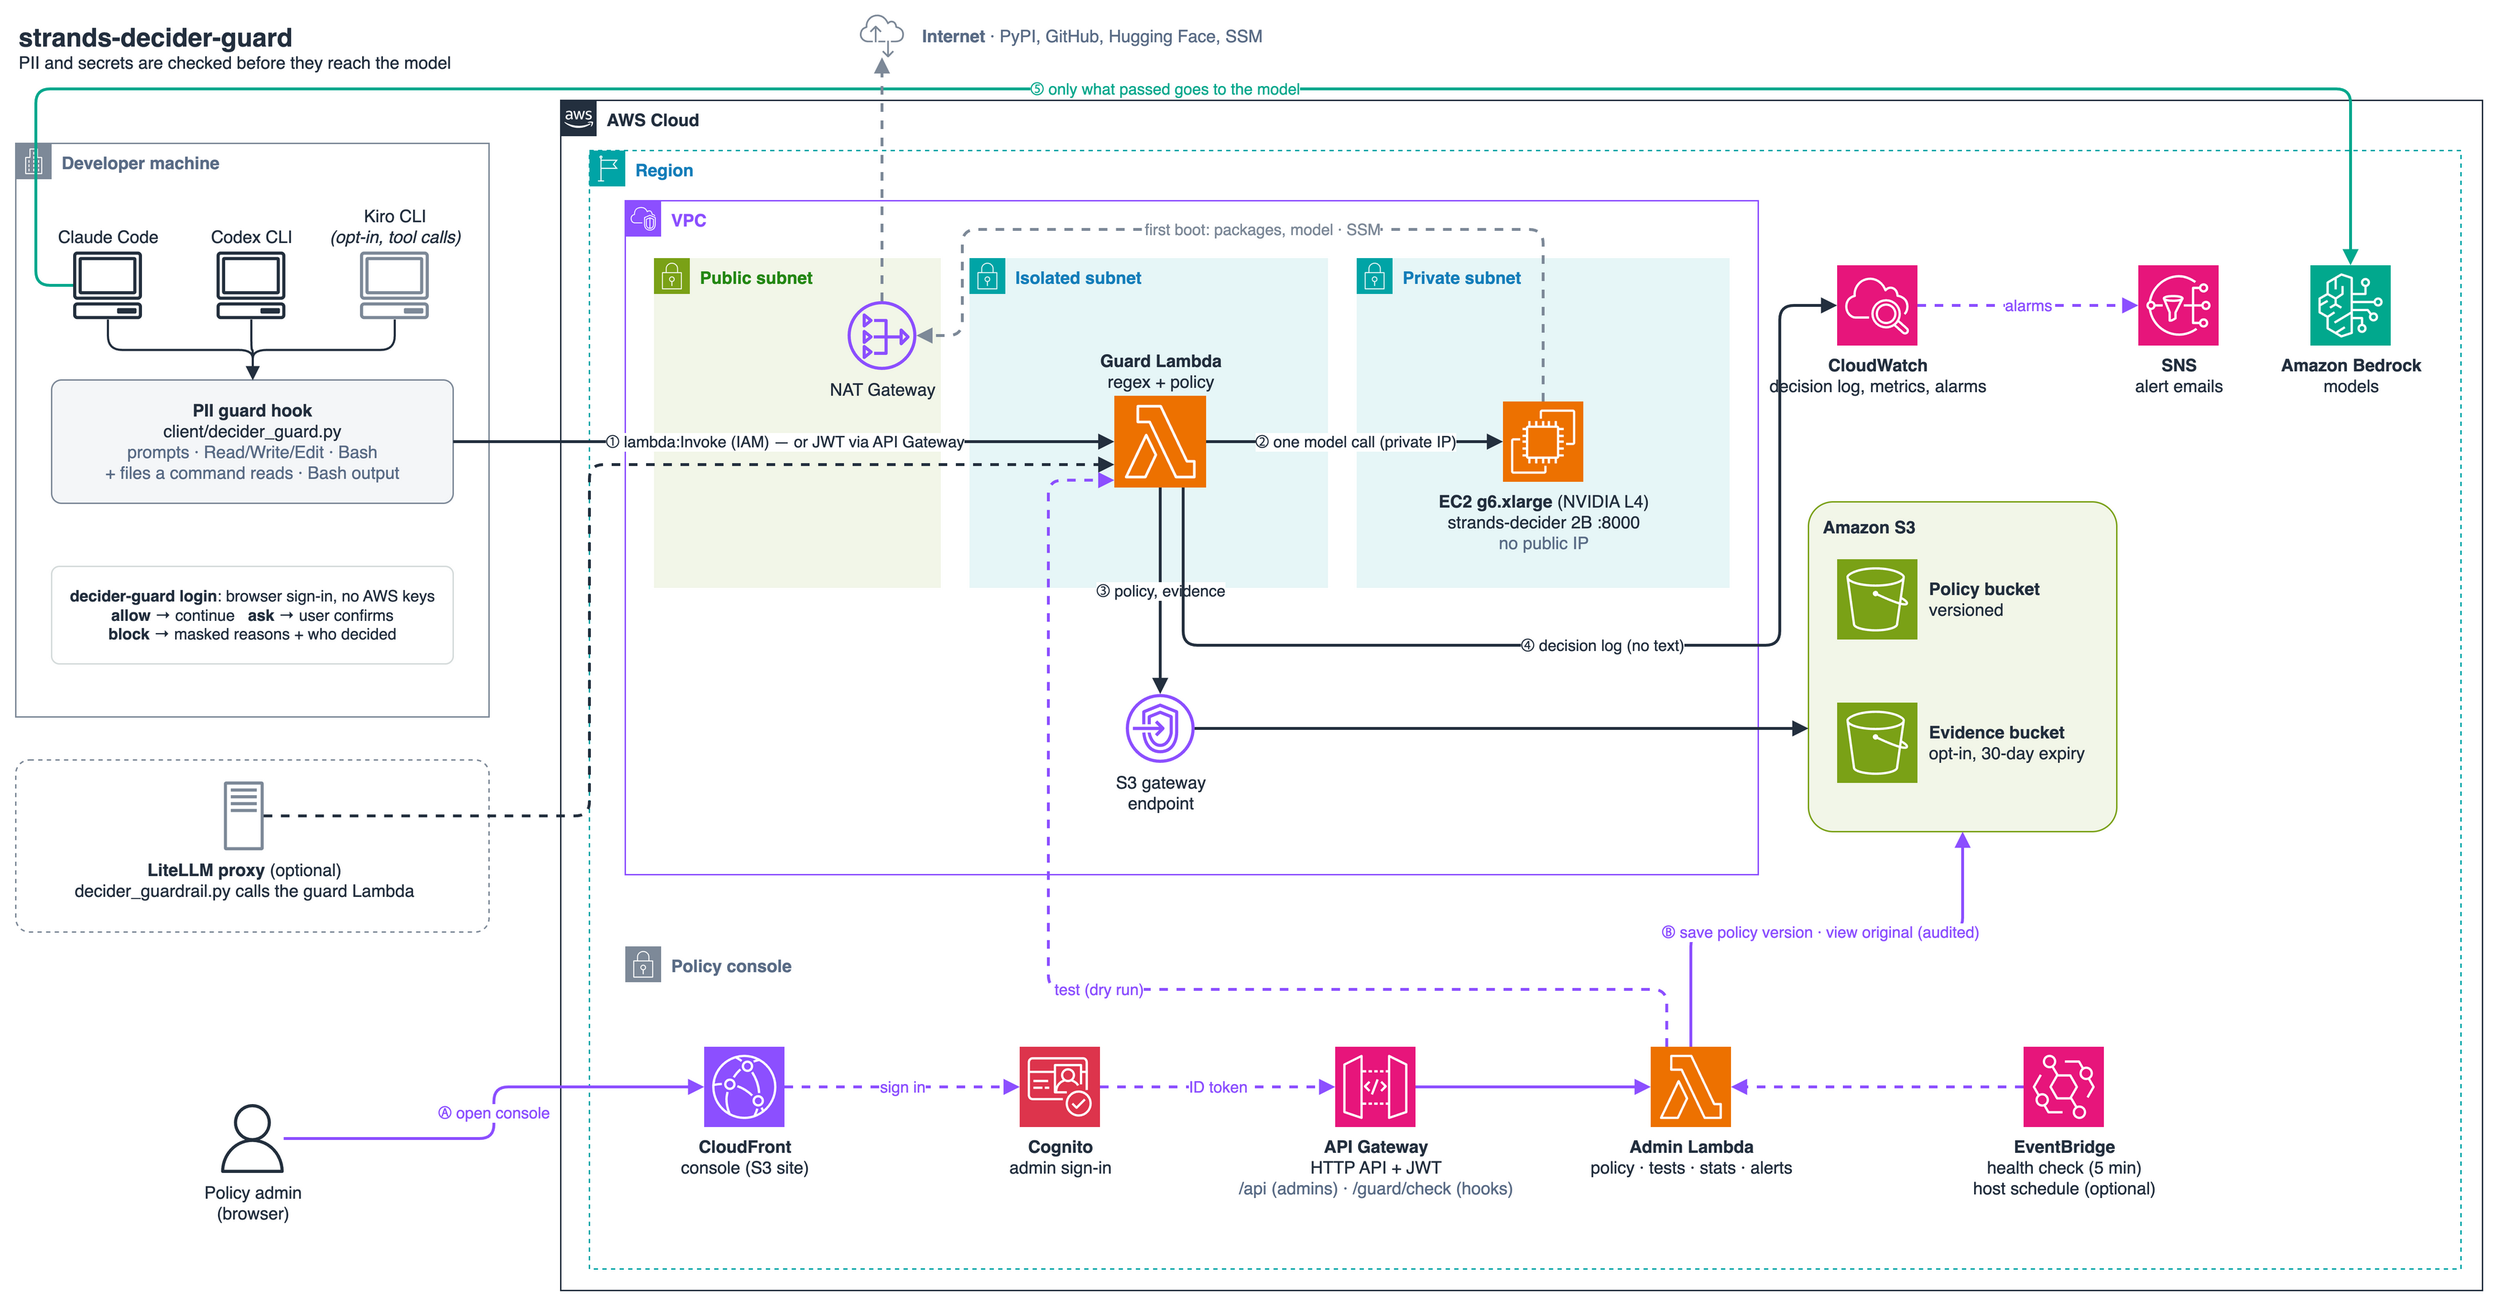
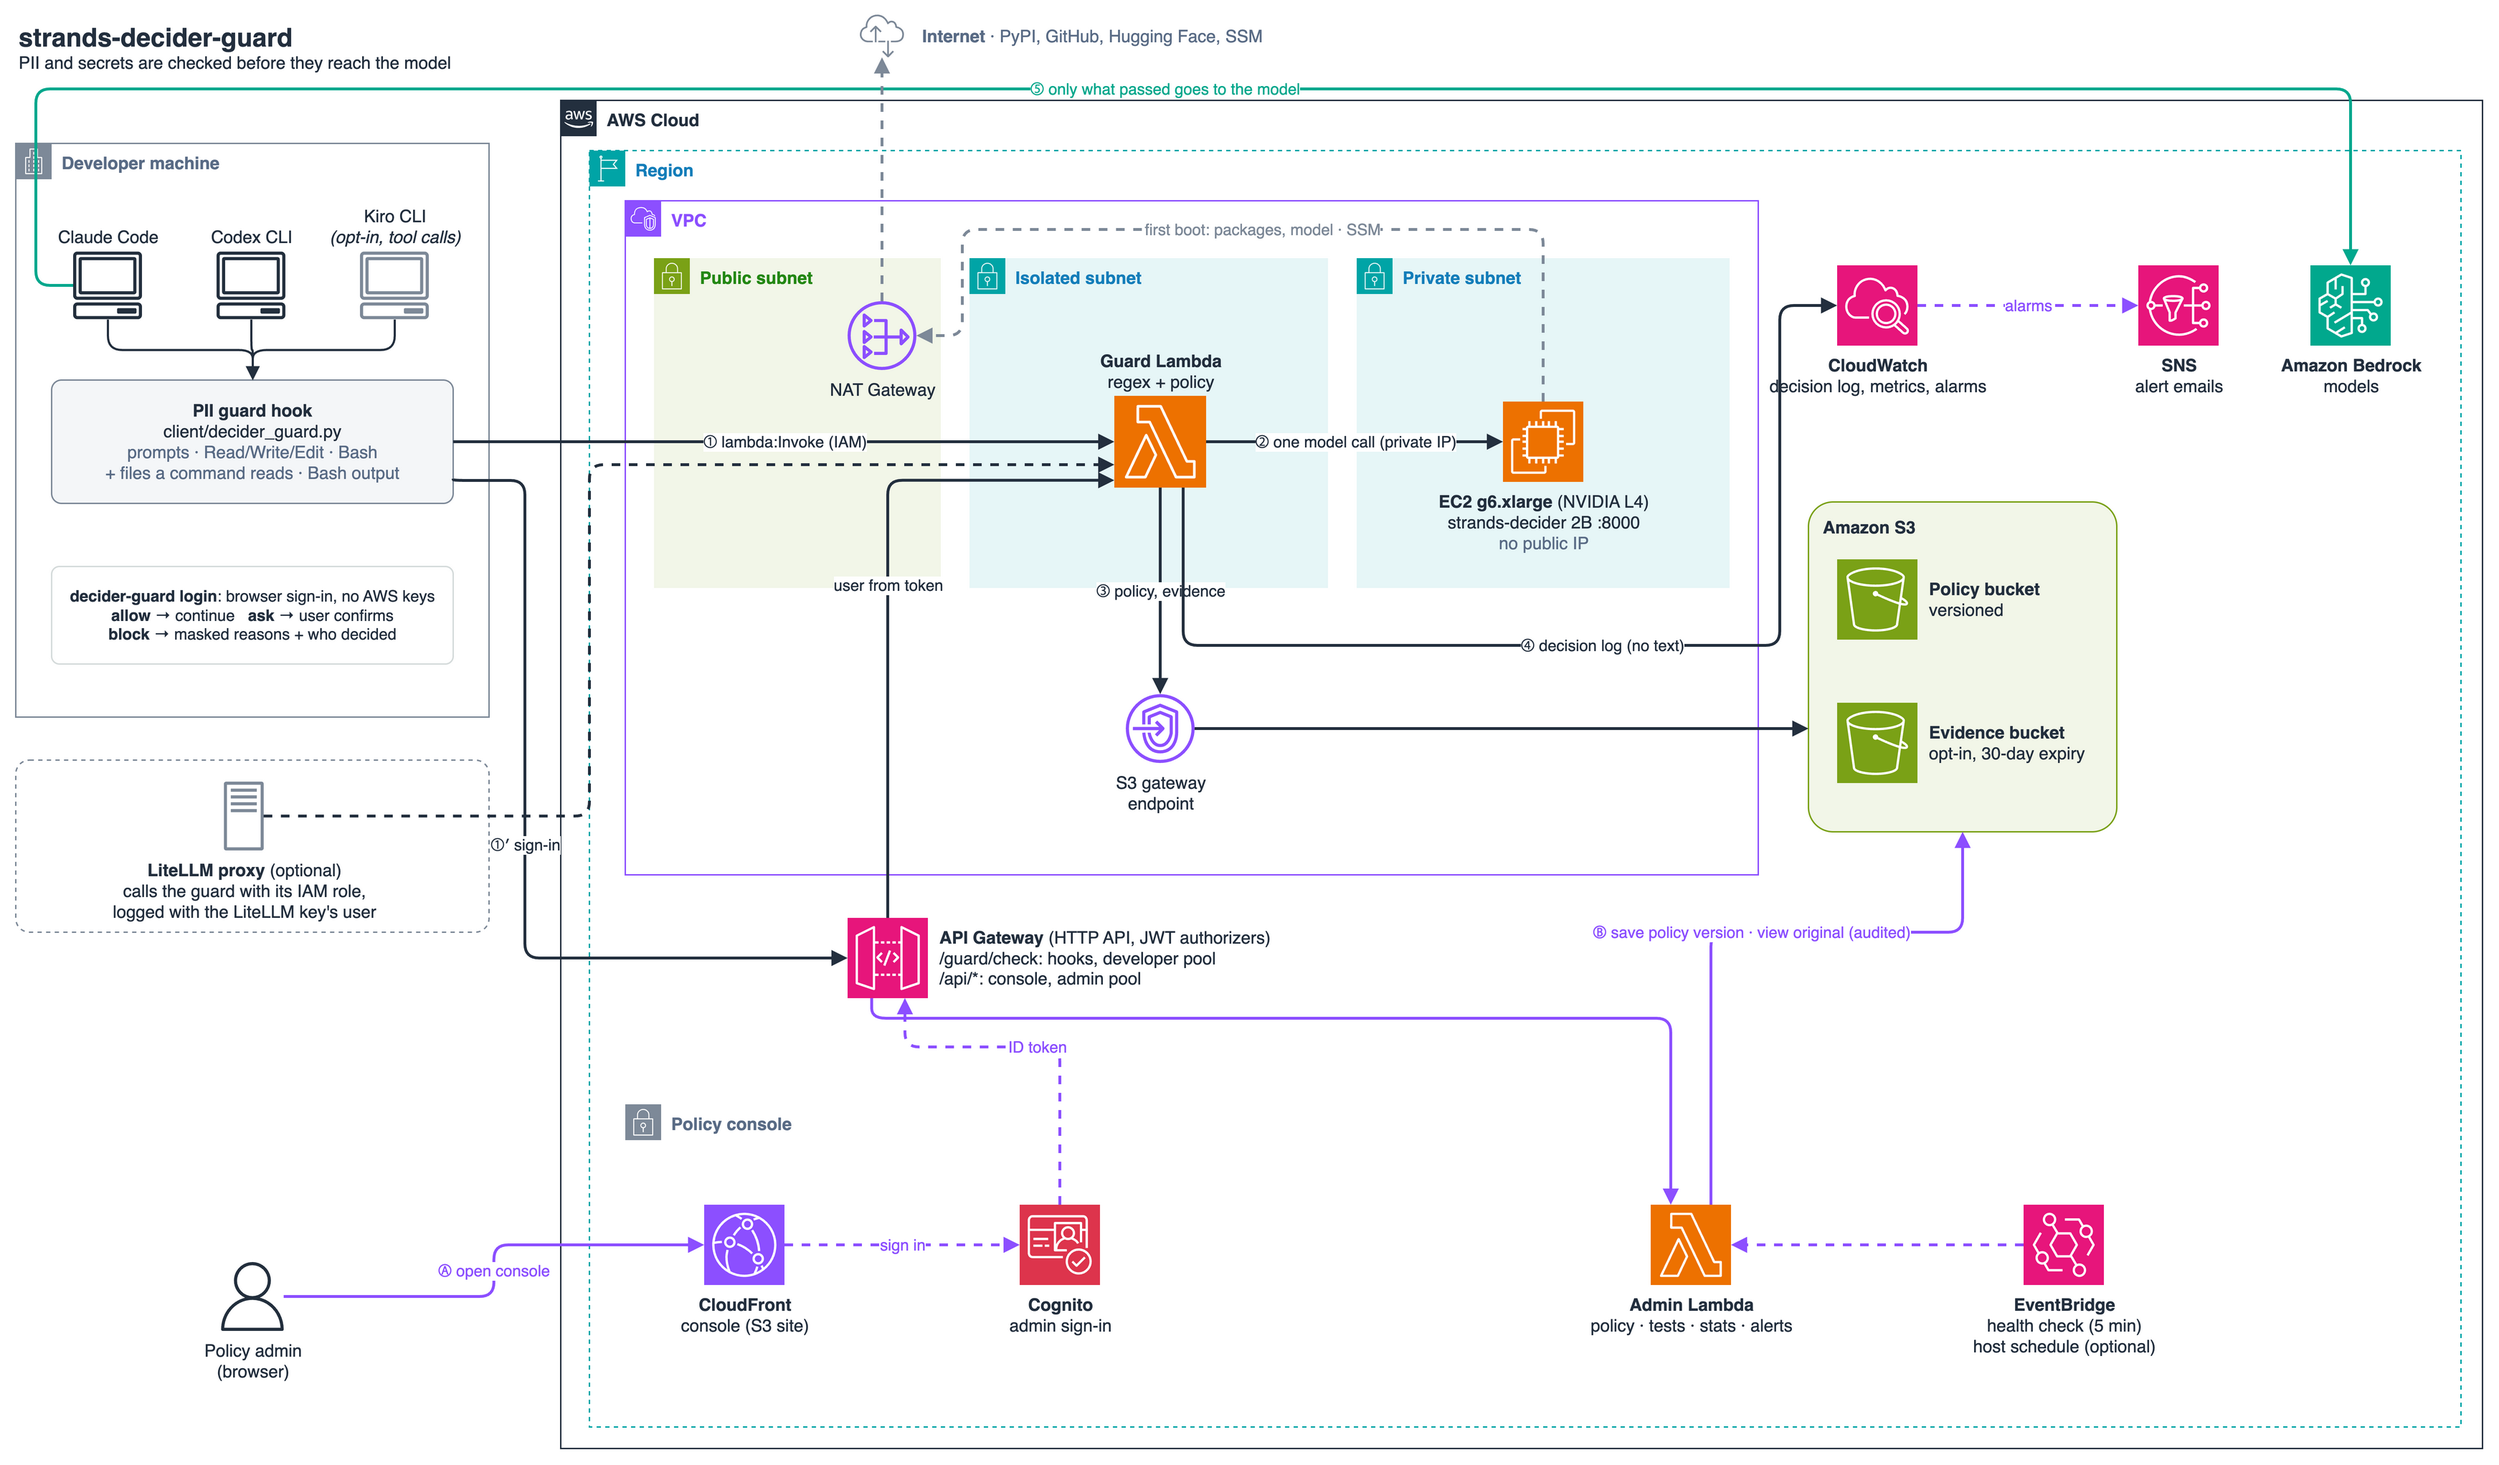
Preflight checks Elastic IP headroom for the NAT; LiteLLM forwards the key's user; diagram shows the sign-in path
- deploy.sh: resolve --network before preflight, fail early when no Elastic IP is free, show the network in the summary
- Guard logs user_source: token (verified by API Gateway) or caller (reported by an IAM caller such as LiteLLM)
- litellm/decider_guardrail.py sends the LiteLLM key's user/key alias/team
- Diagram: API Gateway with both routes, hook sign-in path, LiteLLM identity

diff --git a/guard/lambda_handler.py b/guard/lambda_handler.py
@@ -1,11 +1,13 @@
 """Lambda entry point.
 
   {"items": [{"source", "text"}], "client": "claude", "lang": "en"}   -> verdict under the saved policy
+      optional "user": who the caller acts for (the LiteLLM guardrail sends the key's user); logged with
+      user_source "caller", since a direct invoke cannot prove it
   {"items": [...], "policy": {...}, "dry_run": true}    -> verdict under a draft policy (admin console test; not logged)
   {"health": true}                                      -> decider status
 
 Also served as POST /guard/check behind an API Gateway JWT authorizer (hooks with --auth jwt): the body is the first or
-third form, the signed-in user (from the token) is logged with the decision, and draft policies are refused.
+third form, the signed-in user (from the token) is logged with user_source "token", and draft policies are refused.
 
 The policy is read from S3 (POLICY_BUCKET/POLICY_KEY, saved by the admin console) and cached
 for 30 s; a missing policy means the defaults. Logs only decisions, sources, categories and
@@ -101,7 +103,8 @@ def api_handler(event, context):
     if body.get("health"):
         return _api_response(200, handler({"health": True}, context))
     # Only the admin console (IAM invoke) may test draft policies; developers always get the saved policy.
-    return _api_response(200, check({"items": items, "client": str(body.get("client", ""))[:20], "lang": body.get("lang")}, context, user))
+    return _api_response(200, check({"items": items, "client": str(body.get("client", ""))[:20], "lang": body.get("lang")}, context,
+                                    user, "token" if user else ""))
 
 
 def handler(event, context):
@@ -112,11 +115,12 @@ def handler(event, context):
             return {"ok": True, "decider": guard_core.health()}
         except Exception as e:
             return {"ok": False, "error": str(e)}
-    return check(event, context)
+    user = str(event.get("user") or "")[:200]
+    return check(event, context, user, "caller" if user else "")
 
 
-def check(event, context, user=""):
-    """user: the signed-in developer for API calls; empty for direct invokes, whose payload cannot vouch for anyone."""
+def check(event, context, user="", user_source=""):
+    """user_source: "token" (verified by the API's JWT authorizer) or "caller" (reported by an IAM caller such as LiteLLM)."""
     dry_run = bool(event.get("dry_run"))
     lang = guard_core.lang_of(event.get("lang"))
     policy = guard_core.normalize_policy(event["policy"], lang) if dry_run and "policy" in event else current_policy()
@@ -136,6 +140,7 @@ def check(event, context, user=""):
             "decision": out["decision"],
             "client": event.get("client", ""),
             "user": user,
+            "user_source": user_source,
             "sources": ",".join(r["source"] for r in out["results"]),
             "categories": _categories(out),
             "basis": out["basis"] or "",

diff --git a/litellm/decider_guardrail.py b/litellm/decider_guardrail.py
@@ -109,6 +109,15 @@ def _has_tool_result(m) -> bool:
     return isinstance(c, list) and any(isinstance(b, dict) and b.get("type") == "tool_result" for b in c)
 
 
+def key_user(auth) -> str:
+    """Who the LiteLLM key belongs to (set by the proxy admin, unlike the request's own "user" field)."""
+    for attr in ("user_email", "user_id", "key_alias", "team_alias", "team_id"):
+        v = getattr(auth, attr, None)
+        if v:
+            return str(v)
+    return ""
+
+
 class DeciderGuardrail(CustomGuardrail):
     def __init__(self, backend: str = "lambda", function_name: Optional[str] = None, region: Optional[str] = None,
                  decider_url: Optional[str] = None, block_on_ask: Any = True, fail_mode: str = "closed",
@@ -125,7 +134,7 @@ class DeciderGuardrail(CustomGuardrail):
         super().__init__(**kwargs)
 
     # ---- backend ----
-    def _check_sync(self, items):
+    def _check_sync(self, items, user=""):
         if self.backend == "http":
             import guard_core
             return guard_core.check_many(items, self.decider_url, lang=self.language)
@@ -133,7 +142,7 @@ class DeciderGuardrail(CustomGuardrail):
             import boto3
             from botocore.config import Config
             self._lambda = boto3.client("lambda", region_name=self.region, config=Config(read_timeout=30, retries={"max_attempts": 2}))
-        resp = self._lambda.invoke(FunctionName=self.function_name, Payload=json.dumps({"items": items, "client": "litellm", "lang": self.language}).encode())
+        resp = self._lambda.invoke(FunctionName=self.function_name, Payload=json.dumps({"items": items, "client": "litellm", "lang": self.language, "user": user}).encode())
         out = json.load(resp["Payload"])
         if resp.get("FunctionError"):
             raise RuntimeError(out.get("errorMessage", str(out)))
@@ -156,7 +165,7 @@ class DeciderGuardrail(CustomGuardrail):
         if not fresh:
             return data
         try:
-            verdict = await asyncio.to_thread(self._check_sync, [it for _, it in fresh])
+            verdict = await asyncio.to_thread(self._check_sync, [it for _, it in fresh], key_user(user_api_key_dict))
         except Exception as e:
             if self.fail_mode == "closed":
                 raise HTTPException(status_code=503, detail={"error": f"[PII guard] {MESSAGES[self.language]['unavailable']}: {str(e)[:200]}"})

diff --git a/tests/test_signin.py b/tests/test_signin.py
@@ -67,9 +67,24 @@ class GuardApi(unittest.TestCase):
         self.assertEqual(self.call(None, raw="{not json")[0], 400)
         self.assertEqual(self.call(None, raw="x" * 2_000_001)[0], 413)
 
-    def test_direct_invoke_cannot_claim_a_user(self):
-        _, logs = quiet_handler({"items": [{"source": "prompt", "text": "hello"}], "user": "forged"})
-        self.assertEqual(logs[-1]["user"], "")
+    def test_user_source_tells_verified_from_reported(self):
+        _, logs = quiet_handler({"items": [{"source": "prompt", "text": "hello"}], "user": "litellm-key-user"})
+        self.assertEqual((logs[-1]["user"], logs[-1]["user_source"]), ("litellm-key-user", "caller"))   # IAM caller's word
+        _, logs = quiet_handler({"items": [{"source": "prompt", "text": "hello"}]})
+        self.assertEqual((logs[-1]["user"], logs[-1]["user_source"]), ("", ""))
+        logs = self.call({"items": [{"source": "prompt", "text": "hello"}]})[2]
+        self.assertEqual(logs[-1]["user_source"], "token")
+
+    def test_litellm_sends_the_key_user(self):
+        sys.path.insert(0, os.path.join(ROOT, "litellm"))
+        stub = type(sys)("stub")
+        stub.CustomGuardrail, stub.HTTPException = object, Exception
+        with mock.patch.dict(sys.modules, {"litellm": stub, "litellm.integrations": stub, "litellm.integrations.custom_guardrail": stub,
+                                           "fastapi": stub}):
+            import decider_guardrail as dg
+        auth = type("Auth", (), {"user_email": None, "user_id": "u-42", "key_alias": "ci-key"})()
+        self.assertEqual(dg.key_user(auth), "u-42")
+        self.assertEqual(dg.key_user(object()), "")
 
 
 class FakeIdp(http.server.BaseHTTPRequestHandler):

diff --git a/admin/api/monitoring.py b/admin/api/monitoring.py
@@ -241,7 +241,7 @@ def decision_log(params):
                 and (not category or category in e["categories"].split(",")) and (not q or q.lower() in e["sources"].lower())]
         rows.sort(key=lambda e: e["_t"], reverse=True)
         return {"rows": [{k: v for k, v in e.items() if k != "_t"} for e in rows[:limit]], "truncated": len(rows) > limit}
-    parts = ["fields @timestamp, decision, client, user, sources, categories, chars, ms, basis, evidence, @requestId", "filter ispresent(decision)"]
+    parts = ["fields @timestamp, decision, client, user, user_source, sources, categories, chars, ms, basis, evidence, @requestId", "filter ispresent(decision)"]
     if decisions:
         parts.append("filter decision in [" + ", ".join(f'"{d}"' for d in decisions) + "]")
     if client:
@@ -252,7 +252,7 @@ def decision_log(params):
         parts.append(f"filter sources like /(?i){_rx(q)}/ or user like /(?i){_rx(q)}/")   # target or signed-in user
     parts.append(f"sort @timestamp desc | limit {limit + 1}")
     res, partial = insights(GUARD_LOG_GROUP, {"rows": " | ".join(parts)}, hours)
-    rows = [{"ts": iso_from_insights(r.get("@timestamp")), "decision": r.get("decision"), "client": r.get("client"), "user": r.get("user") or None,
+    rows = [{"ts": iso_from_insights(r.get("@timestamp")), "decision": r.get("decision"), "client": r.get("client"), "user": r.get("user") or None, "user_source": r.get("user_source") or None,
              "sources": r.get("sources"), "categories": r.get("categories"), "chars": _int(r.get("chars")),
              "ms": _int(r.get("ms")), "basis": r.get("basis"), "evidence": r.get("evidence"), "request_id": r.get("@requestId")}
             for r in res["rows"]]

diff --git a/docs/LITELLM.ko.md b/docs/LITELLM.ko.md
@@ -62,6 +62,8 @@ wire_api = "responses"
 
 - 검사 대상은 **가장 최근 턴**뿐입니다. 마지막 assistant 메시지 이후의 사용자 프롬프트와 tool result 를 봅니다.
   이전 턴은 새로 들어왔을 때 이미 검사했고, 통과한 텍스트는 해시로 기억해 다시 검사하지 않습니다.
+- 검사마다 LiteLLM 키의 사용자(`user_email`, `user_id`, `key_alias`, 팀 중 설정된 것)가 `user` 로 남습니다.
+  guard 는 프록시가 알려 준 값을 믿는 것이므로 `user_source: caller` 로 표시됩니다 (로그인한 hook 은 `token`).
 - system / developer 프롬프트는 검사하지 않습니다. 모델이 직접 만든 function call 인자도 건너뜁니다.
 - 차단 응답은 HTTP 400 입니다. 오류 메시지에 마스킹된 근거(`reasons`)와 콘솔의 차단 안내 문구가 들어 있습니다.
 - 오류 메시지 언어는 guardrail 설정의 `language: en|ko` 로 정합니다.

diff --git a/docs/LITELLM.md b/docs/LITELLM.md
@@ -69,6 +69,8 @@ wire_api = "responses"
 
 - Only the **newest turn** is checked: the user prompt and tool results after the last assistant message.
   Earlier turns were checked when they were new. Texts that already passed are remembered by hash.
+- Each check is logged with the LiteLLM key's user (`user_email`, `user_id`, `key_alias` or team, whichever is set) as
+  `user`, marked `user_source: caller` because the guard takes the proxy's word for it (signed-in hooks are `token`).
 - System and developer prompts, and the model's own function-call arguments, are skipped.
 - A block is HTTP 400. The error carries masked reasons (`reasons`) and your console block message.
   If the guard is unreachable, `fail_mode: closed` returns 503.
